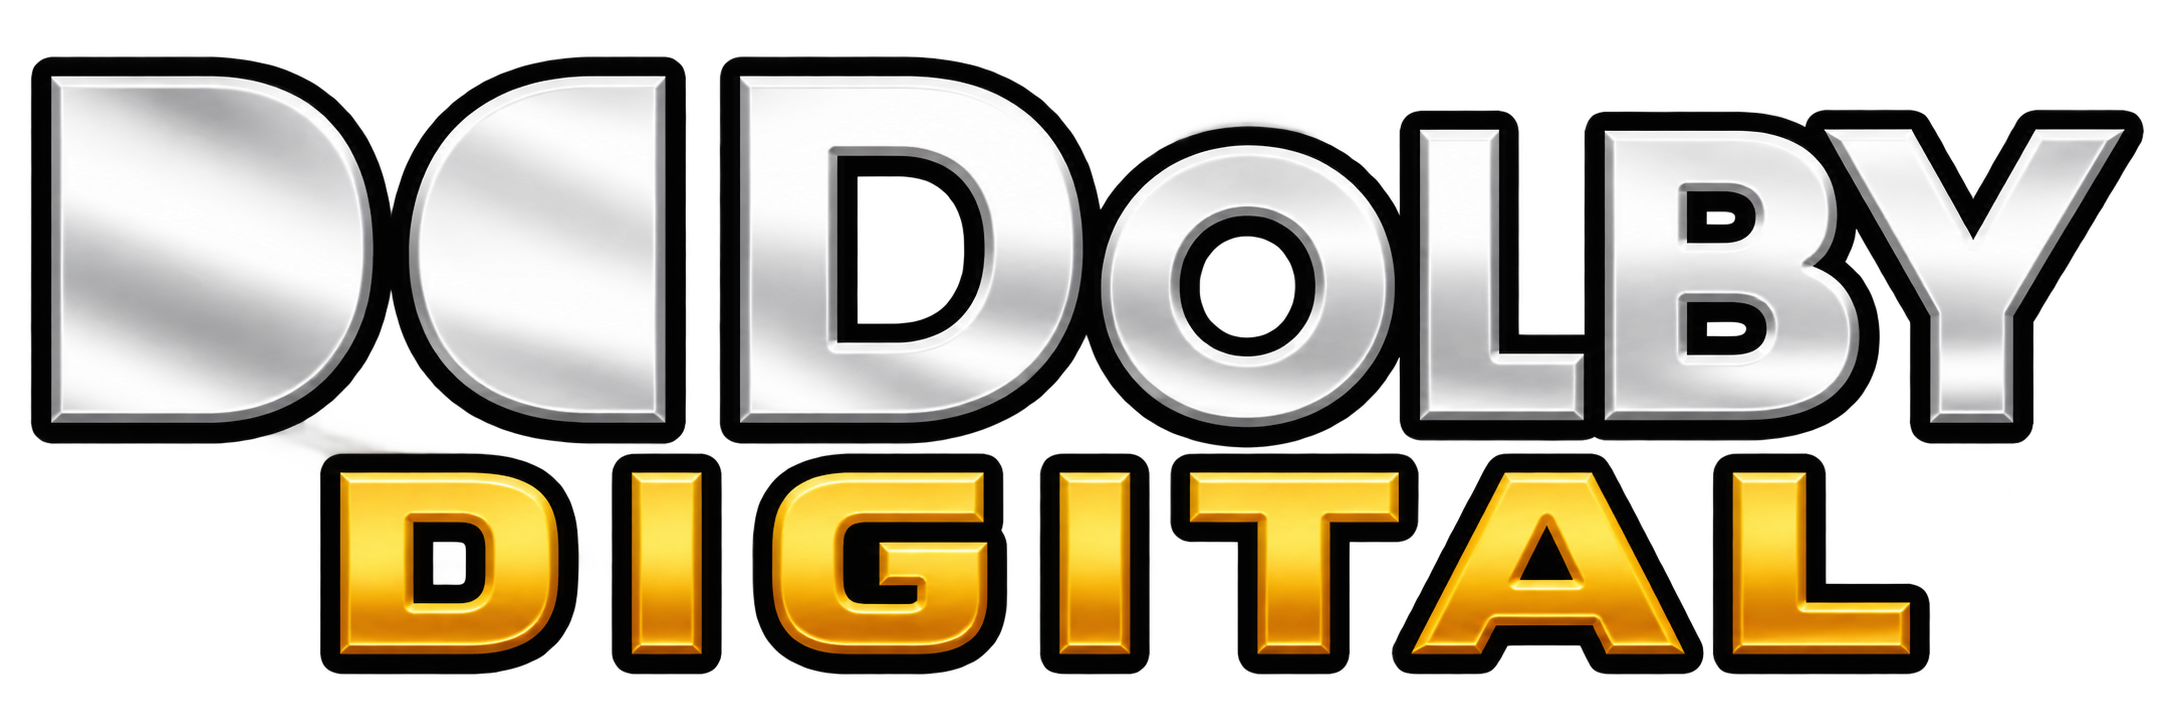
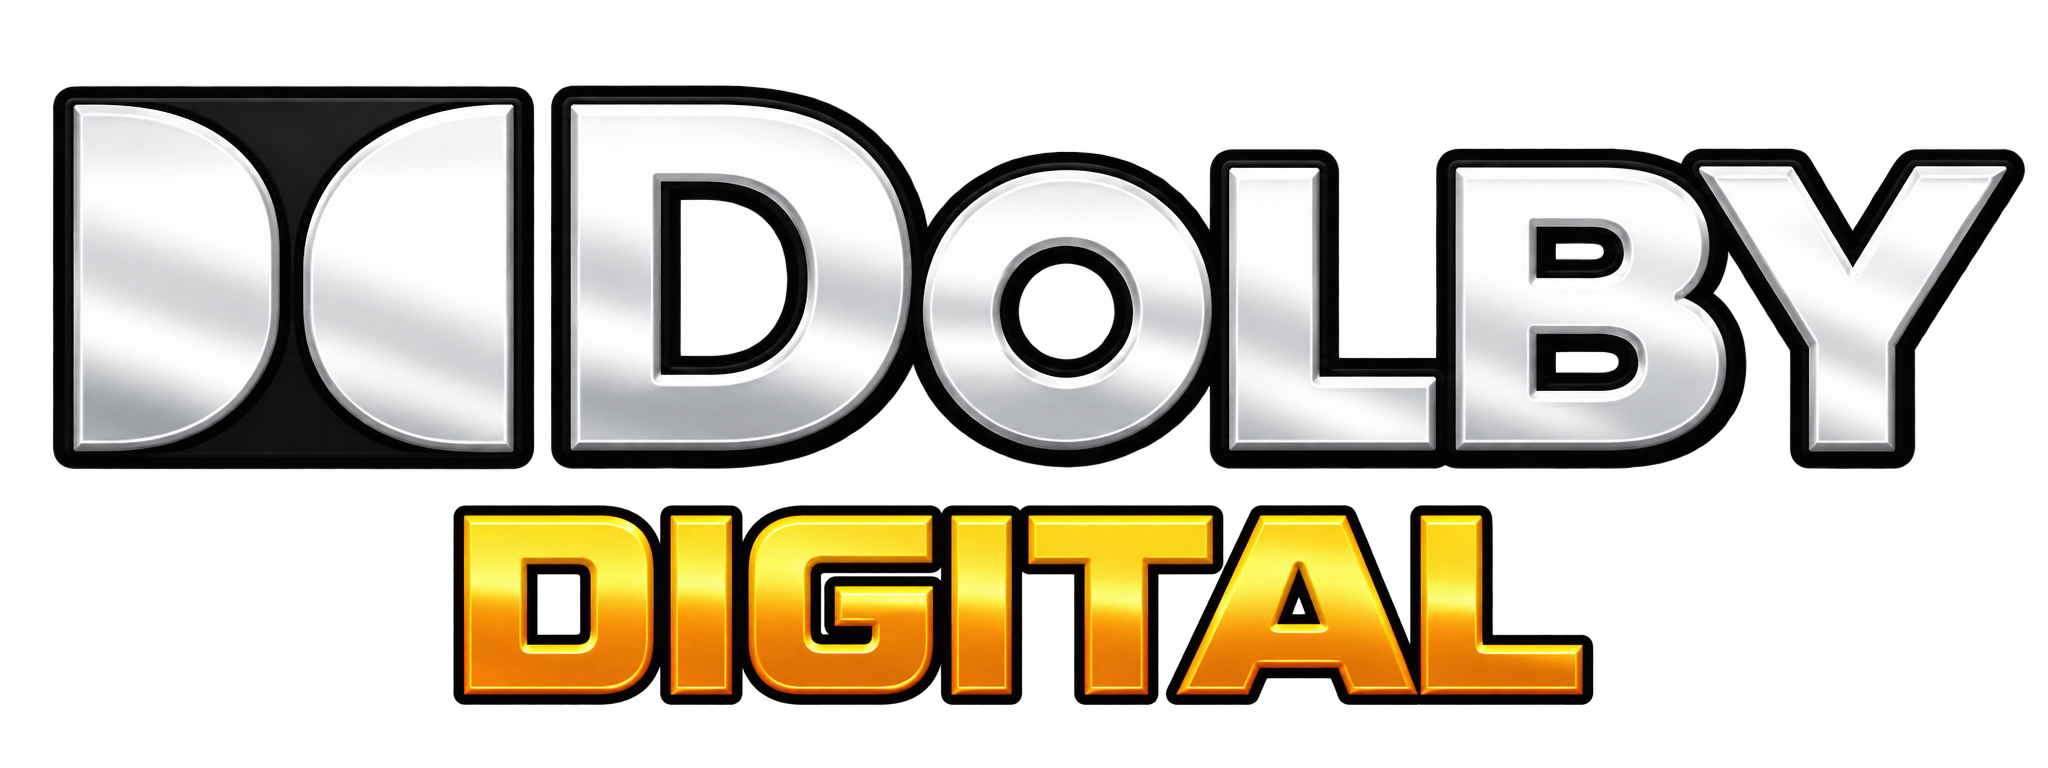
Unify every Dolby badge with the approved pixel-identical header

diff --git a/tests/test_badges.py b/tests/test_badges.py
@@ -73,7 +73,7 @@ class BadgesTest(unittest.TestCase):
         self.assertEqual(matched("PCM8ch", "audio-channels"), {"other-channel-count"})
         self.assertEqual(matched("PCM6ch", "audio-channels"), {"other-channel-count"})
 
-    def test_immersive_and_vision_combinations_keep_existing_images(self):
+    def test_immersive_and_vision_combinations_keep_existing_rules(self):
         self.assertEqual(matched("TrueHD7.1 Atmos", "audio-tech"), {"truehd", "dolby-atmos"})
         self.assertEqual(matched("DDP5.1 Atmos DV", "video-tech"), {"vis-ddp-dv", "vis-atmos-dv"})
         self.assertEqual(matched("TrueHD7.1 DV", "video-tech"), {"vis-truehd-dv"})
@@ -126,6 +126,25 @@ class BadgesTest(unittest.TestCase):
                 self.assertLessEqual(width, 960)
                 self.assertLessEqual(height, 240)
                 self.assertLess(optimized.stat().st_size, original.stat().st_size)
+
+    def test_dolby_family_uses_one_approved_header_and_new_cache_safe_urls(self):
+        plan = json.loads((ROOT / "design" / "metallic-v2.json").read_text(encoding="utf-8"))
+        header = plan["dolbyHeader"]
+        self.assertEqual(len(header["files"]), 8)
+        self.assertTrue((ROOT / header["reference"]).is_file())
+        self.assertTrue((ROOT / header["header"]).is_file())
+        self.assertRegex(header["rawSHA256"], r"^[0-9a-f]{64}$")
+        for filename in header["files"]:
+            asset = next(a for a in plan["assets"] if a["file"] == filename)
+            self.assertEqual(asset["status"], "ready")
+            self.assertEqual(asset["optimized"], "Badges/v2/dolby-unified/" + filename)
+            self.assertTrue((ROOT / "Originals" / "dolby-labels" / filename).is_file())
+            original = (ROOT / asset["original"]).read_bytes()
+            optimized = (ROOT / asset["optimized"]).read_bytes()
+            self.assertEqual(struct.unpack(">II", original[16:24]), (2048, 768))
+            self.assertEqual(struct.unpack(">II", optimized[16:24]), (640, 240))
+            entry = next(f for f in DATA["filters"] if f["imageURL"].rsplit("/", 1)[-1] == filename)
+            self.assertIn("/dolby-unified/", entry["imageURL"])
 
 
 if __name__ == "__main__":

diff --git a/README.md b/README.md
@@ -23,6 +23,18 @@ O progresso e o brief de cada uma das 75 imagens estão em
 `design/metallic-v2.json`. Prata/cromo e dourado seguem o DTS-HD aprovado;
 cores oficiais são preservadas em marcas como TrueHD e nas plataformas.
 As artes são geradas pela ferramenta de imagens integrada, uma por badge.
+Na família Dolby, o usuário autorizou reutilizar o cabeçalho aprovado por
+processamento local: símbolo duplo-D e palavra DOLBY são idênticos nos oito
+badges, mudando somente o texto dourado. O original aprovado e as camadas
+ficam em `Originals/references/` e `Originals/dolby-labels/`; as versões
+anteriores estão preservadas em `Originals/variants/`.
+
+As imagens Dolby padronizadas usam `Badges/v2/dolby-unified/`, uma URL nova
+para evitar aproveitar imagens anteriores em cache. Com `sharp` disponível,
+`node scripts/validate-dolby.cjs` compara os pixels dos cabeçalhos nos
+oito originais e nas oito versões otimizadas. Para remontar usando as
+camadas salvas: `node scripts/compose-dolby.cjs --rebuild`, seguido de
+`node scripts/optimize-metallic.cjs` com os oito nomes da família.
 
 ## Ampliação de 12/10/2026
 
